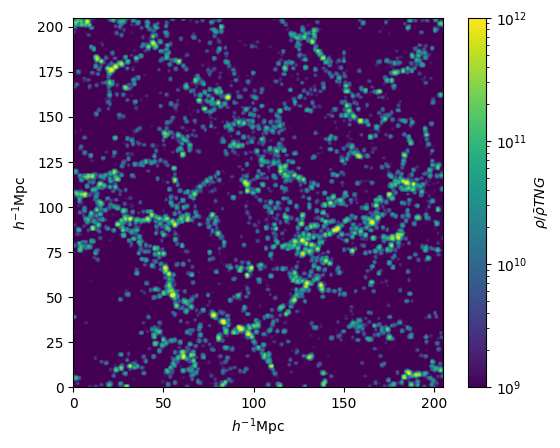
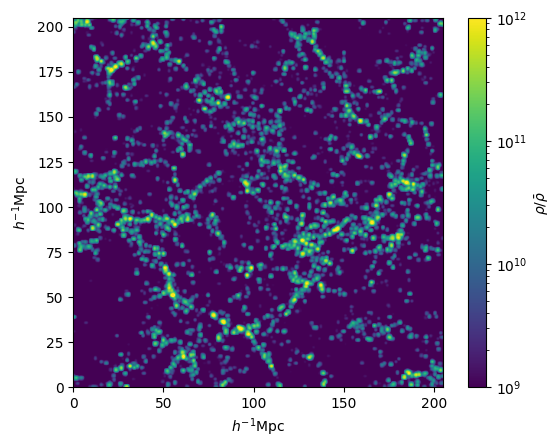
Hopefully correct stellar LDL and TNG 256 v2

diff --git a/genimage_field_stellar.py b/genimage_field_stellar.py
@@ -73,6 +73,6 @@ else:
                        norm = LogNorm(vmin=min_overdensity, vmax=max_overdensity))
 
 cbar = fig.colorbar(cax)
-cbar.set_label(r"$\rho/\bar{\rho}$LDL",fontsize=10)
+cbar.set_label(r"$\rho/\bar{\rho}$",fontsize=10)
 plt.savefig(fout, bbox_inches='tight')
 plt.close(fig)

diff --git a/genimage_stellar.py b/genimage_stellar.py
@@ -59,6 +59,6 @@ else:
                        norm = LogNorm(vmin=min_overdensity,vmax=max_overdensity))
 
 cbar = fig.colorbar(cax)
-cbar.set_label(r"$\rho/\bar{\rho}TNG$",fontsize=10)
+cbar.set_label(r"$\rho/\bar{\rho}$",fontsize=10)
 savefig(fout, bbox_inches='tight')
 close(fig)
